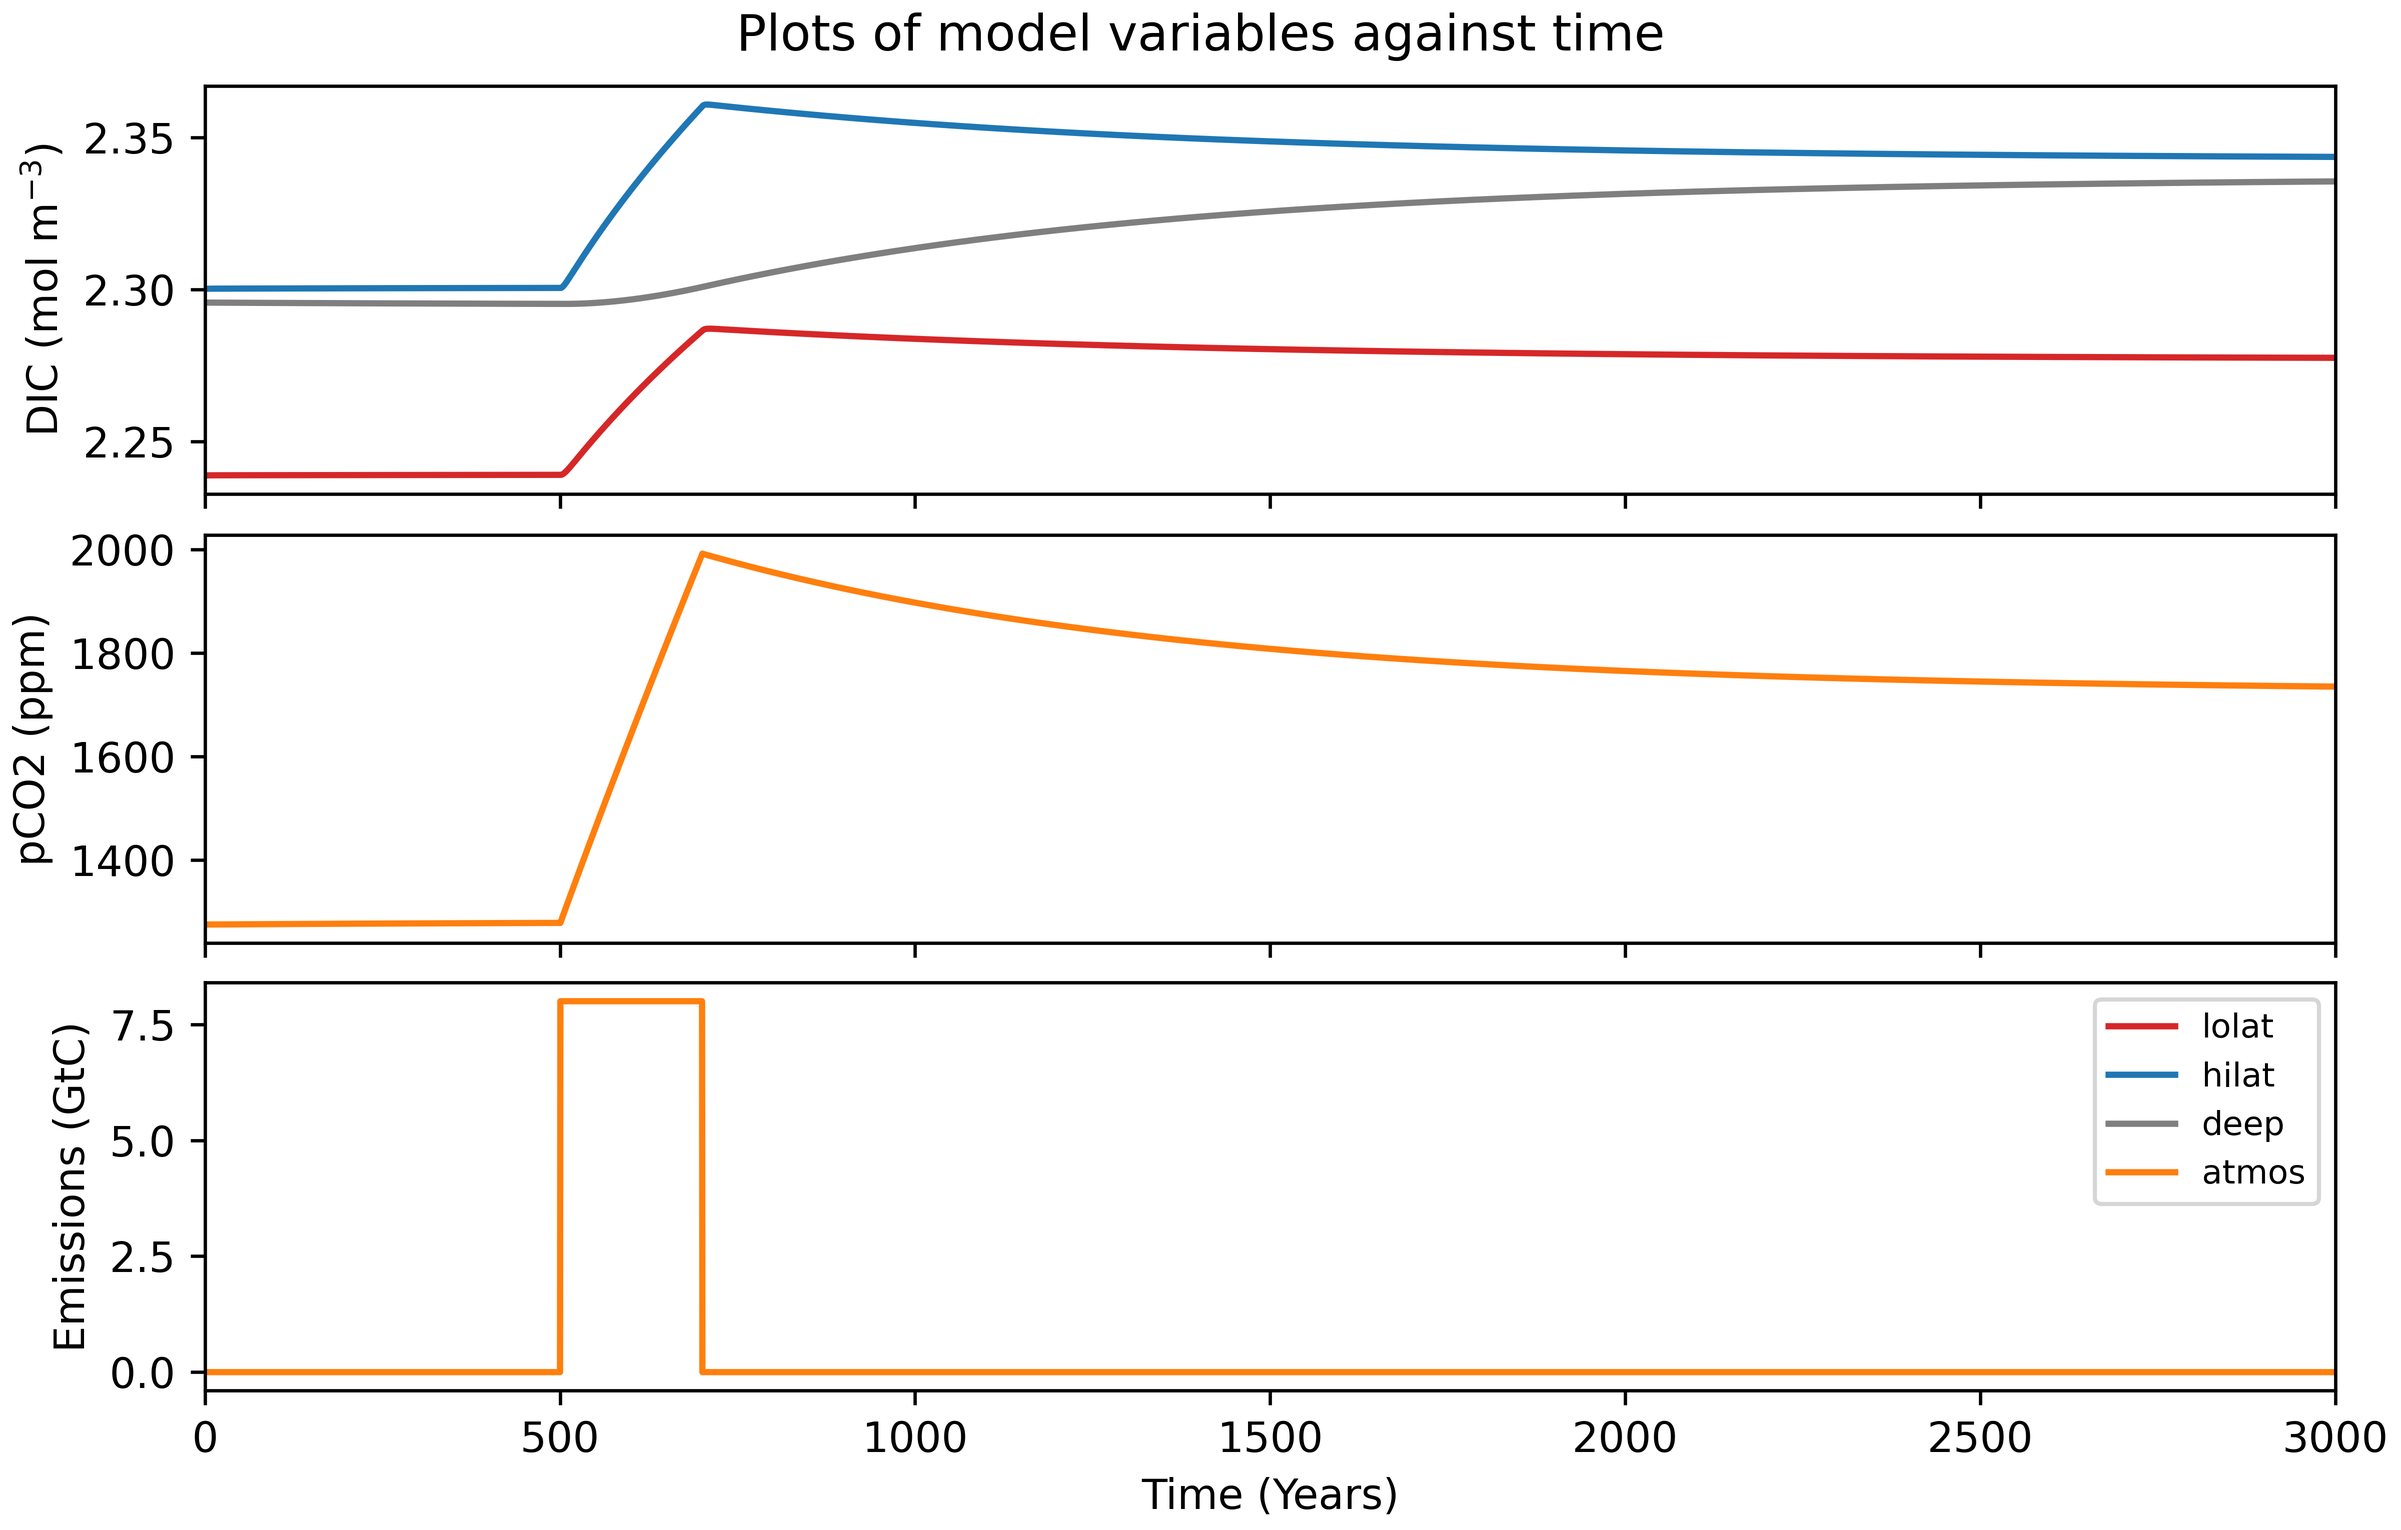
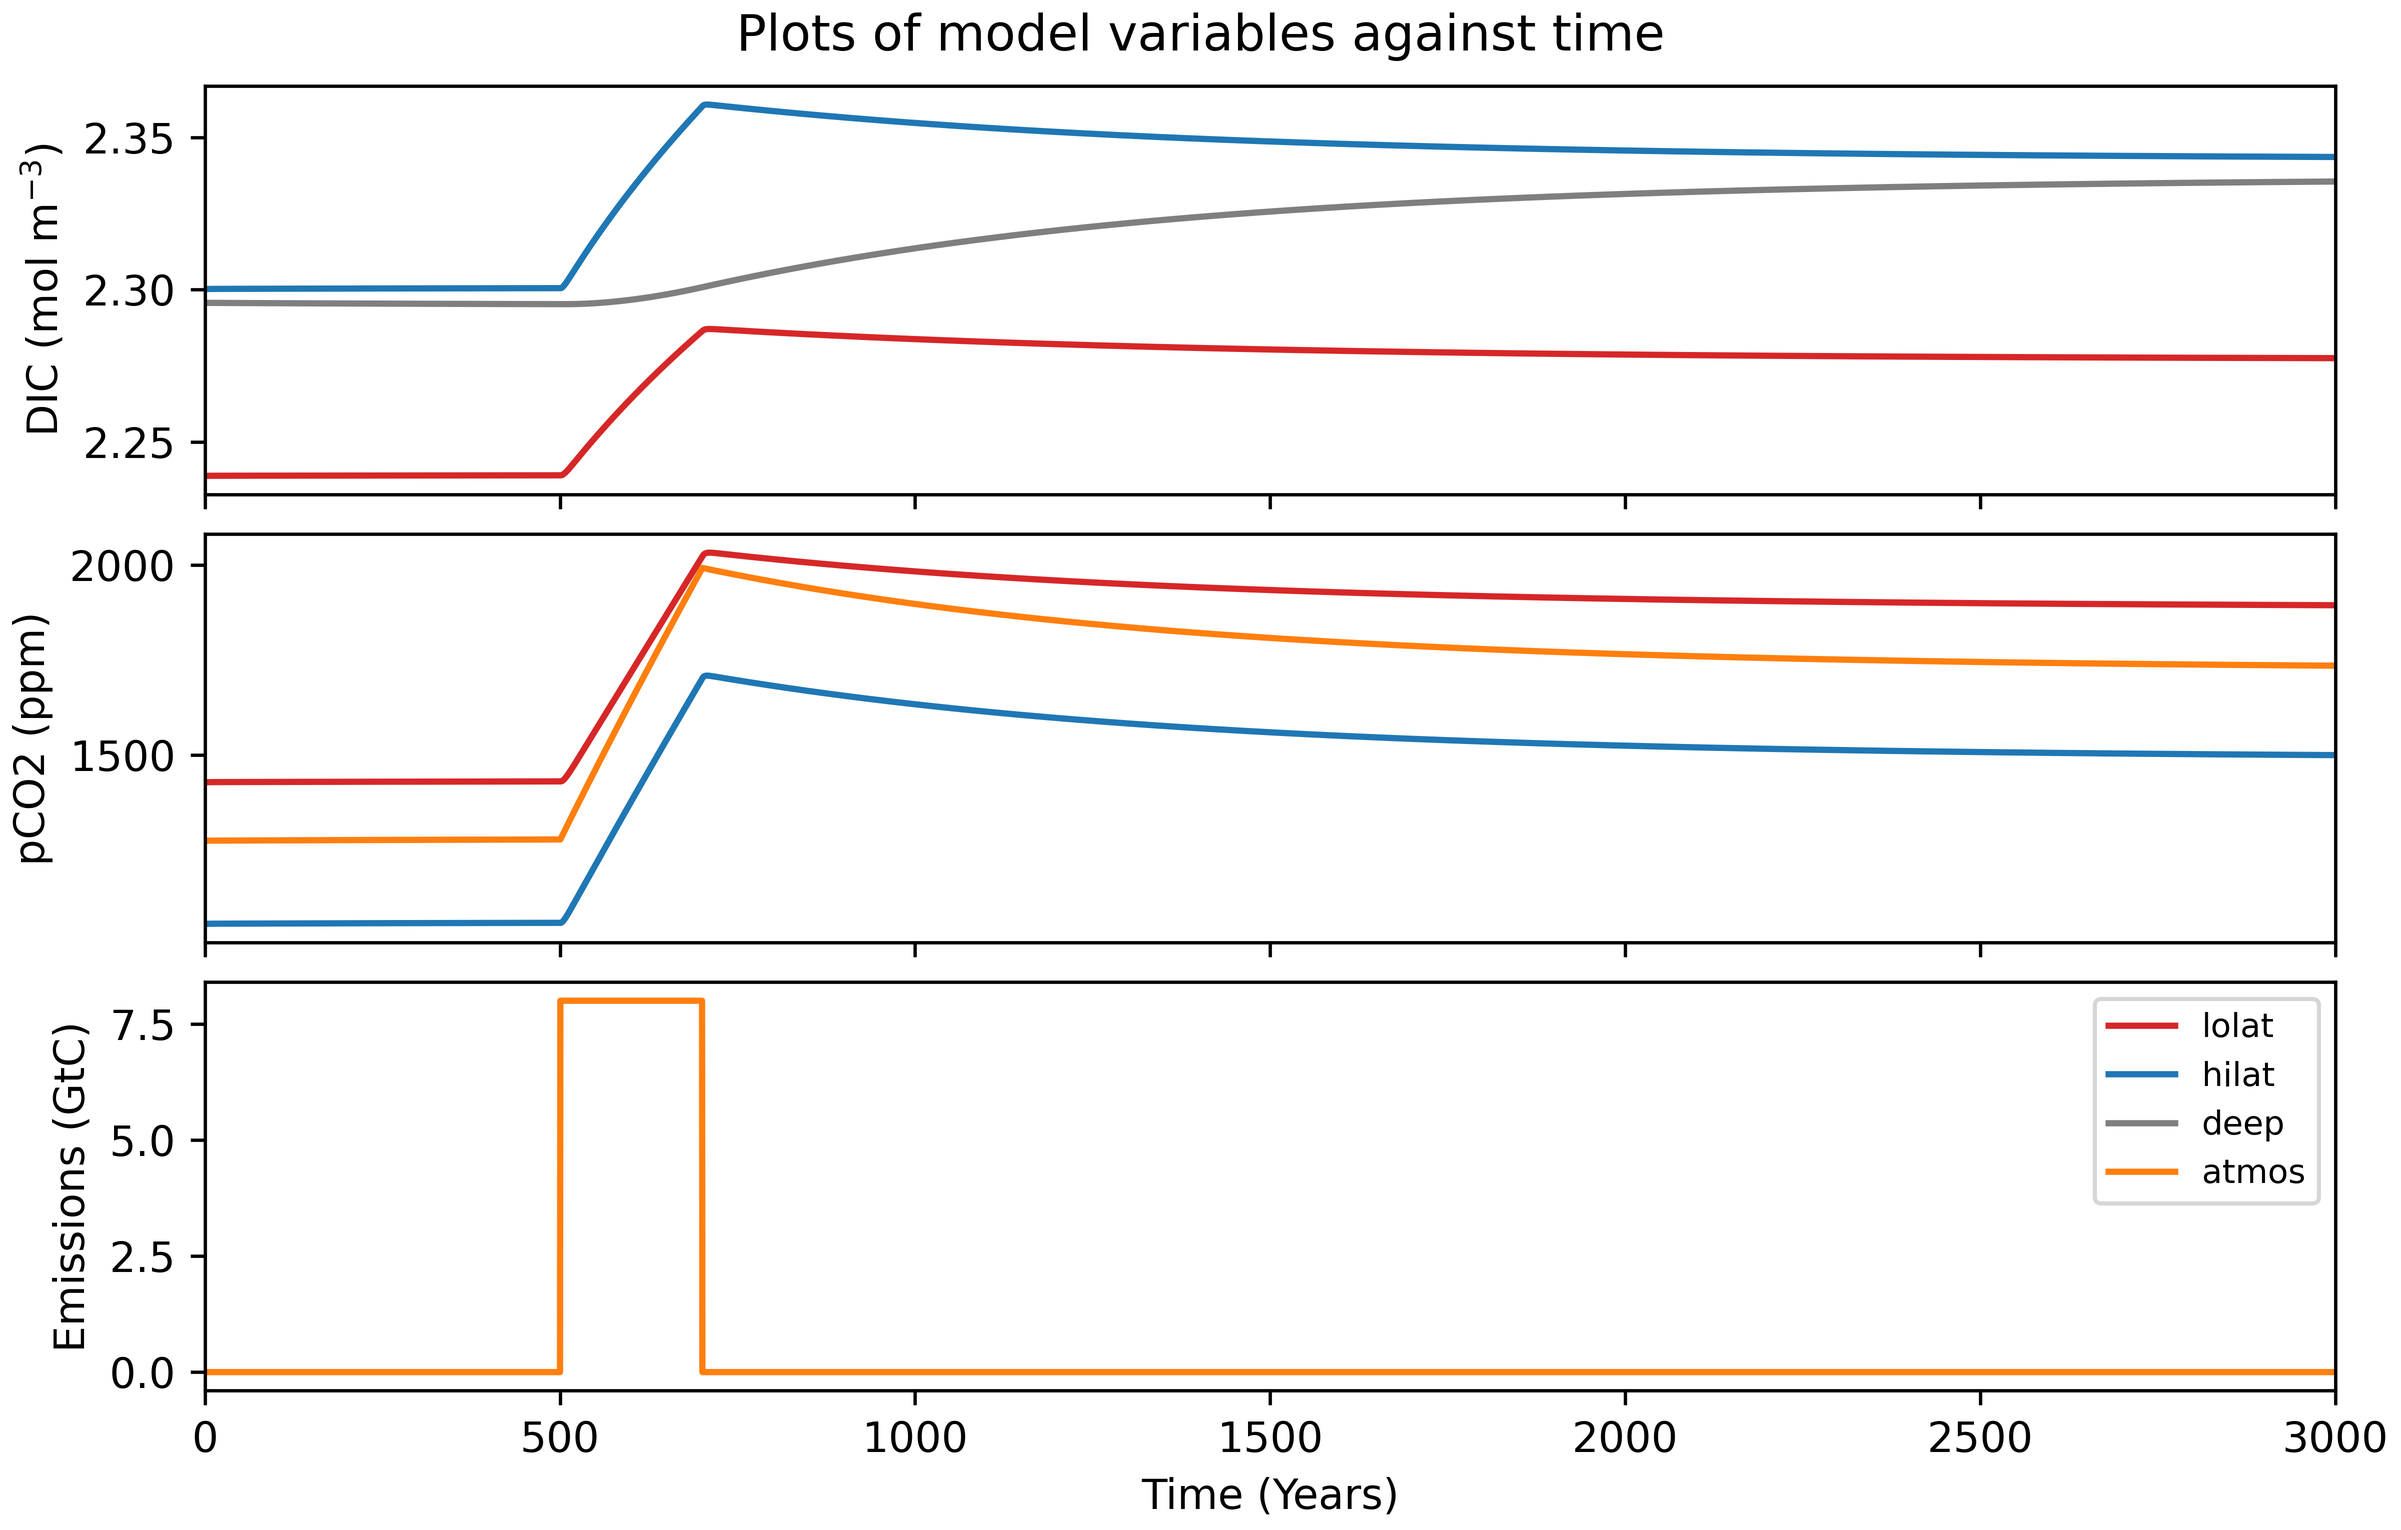
Finished Lab Report Q5

diff --git a/Practical 15/LabReportQuestion5.py b/Practical 15/LabReportQuestion5.py
@@ -5,8 +5,7 @@ https://github.com/lfcd2/QES_Lent_Practicals
 """
 
 from P5main import initialise_dicts_15, ocean_model_p15
-from lfcd2OceanTools.lfcd2Tools import copy_dicts, modified_boxes, Modifier,\
-    modify_dicts, modify_single_dict, add_emissions
+from lfcd2OceanTools.lfcd2Tools import copy_dicts, Modifier, modify_dicts, add_emissions
 import numpy as np
 from OceanTools.tools import plot
 import matplotlib.pyplot as plt
@@ -17,7 +16,7 @@ def run():
     dicts = list(initialise_dicts_15())
 
     # create a new time axis for the model containing 3000 years with a 0.5 year time step
-    tmax = 1000  # how many years to simulate (yr)
+    tmax = 2000  # how many years to simulate (yr)
     dt = 0.5  # the time step of the simulation (yr)
     time = np.arange(0, tmax + dt, dt)  # the time axis for the model
 
@@ -36,30 +35,38 @@ def run():
                            ('dashed', 'Ballasting Feedback', ballasting_dicts)]):
         ls, name, dicts2 = a
 
-        # for every set of intial conditions, this runs the model and unpacks the dicts
+        # for every set of initial conditions, this runs the model and unpacks the dicts
         time_array, finished_dicts = ocean_model_p15(dicts2, tmax, dt)
         final_lolat, final_hilat, final_deep, final_atmos = finished_dicts
 
         # if this is the model, it will make a new fig, axs and plot the graph
         if i == 0:
-            fig, axs = plot.boxes(time_array, ['pCO2', 'TA', 'DIC'],
-                                  final_lolat, final_hilat, final_deep, final_atmos, ls=ls, height=5)
+            fig, axs = plot.boxes(time_array, ['pCO2', 'DIC', 'TA'],
+                                  final_lolat, final_hilat, final_deep, final_atmos, ls=ls, height=2.5)
         # if it's the second or third, this is the same, but it inputs the axes
         else:
-            fig, axs = plot.boxes(time_array, ['pCO2', 'TA', 'DIC'],
+            fig, axs = plot.boxes(time_array, ['pCO2', 'DIC', 'TA'],
                                   final_lolat, final_hilat, final_deep, final_atmos, axs=axs, ls=ls, label=name)
 
         # prints the equilibrium values
         print('Final pCO2 Values:')
-        for box in [final_lolat, final_hilat, final_atmos]:
+        for box in [final_atmos]:
             print(f'Model: {name}, box: {box["name"]} : {box["pCO2"][-1]} ')
 
     # adjusts limits
     ax = axs[0]
-    ax.set_ylim(0, 1200)
+    ax.set_ylim(200, 1150)
     ax.set_xlim(0, tmax)
-
+    ax.set_ylabel('pCO2 (ppm)')
+    axs[2].set_ylabel(r'TA (mol m$^{-3}$)')
+    axs[1].set_ylabel(r'DIC (mol m$^{-3}$)')
+    axs[2].set_xlabel('Time (Years)')
+    axs[1].legend(loc=(0.7, 0.6))
+    axs[2].legend(loc='lower right')
+    plt.suptitle('Plot of model variables against time')
+    fig.tight_layout()
     # plots it
+    plt.savefig('Lab_Report_Q5_Output.png', dpi=600)
     plt.show()
 
 

diff --git a/Practical 14/P4main.py b/Practical 14/P4main.py
@@ -90,7 +90,7 @@ def ocean_model_p14(dicts, tmax, dt):
         )
         box['CO2'] = csys.CO2 * 1e-3  # 1e3 converts back to mol m-3
         box['pH'] = csys.pHtot  # this is -log10([H+])
-        #box['pCO2'] = csys.pCO2  # this is already in the right units (ppm)
+        box['pCO2'] = csys.pCO2  # this is already in the right units (ppm)
         box['K0'] = csys.Ks.K0  # Henry's law constant - [CO2] = K0 * pCO2
 
     # Create a dictionary to keep track of the fluxes calculated at each step
@@ -169,7 +169,7 @@ def ocean_model_p14(dicts, tmax, dt):
             )
             box['CO2'][i] = csys.CO2 * 1e-3  # 1e3 converts back to mol m-3
             box['pH'][i] = csys.pHtot  # this is -log10([H+])
-           # box['pCO2'][i] = csys.pCO2  # this is already in the right units (ppm)
+            box['pCO2'][i] = csys.pCO2  # this is already in the right units (ppm)
             box['K0'][i] = csys.Ks.K0  # Henry's law constant - [CO2] = K0 * pCO2
 
         # ===================== UPDATE ATMOSPHERE BOX ===================== #
